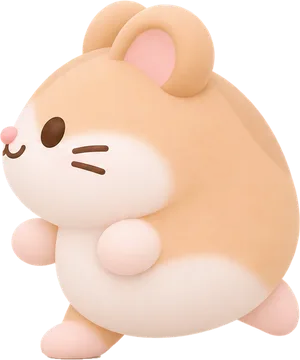
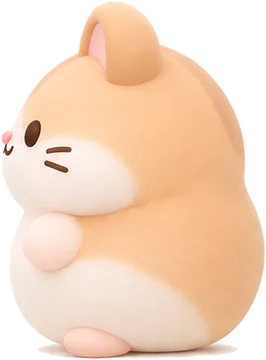
햄스터 옆모습을 예전 그림으로 되돌림 (서 있는 모습 + 달리는 모습, 액세서리 위치 복원)

diff --git a/animals.js b/animals.js
@@ -17,7 +17,7 @@ export const ANIMALS = [
   { id: 'bear', label: '곰', emoji: '🐻' },
   { id: 'fox', label: '여우', emoji: '🦊' },
   { id: 'sheep', label: '양', emoji: '🐑' },
-  { id: 'hamster', label: '햄스터', emoji: '🐹' },
+  { id: 'hamster', label: '햄스터', emoji: '🐹', runOnly: true }, // 옆으로 움직일 땐 달리는 그림(2번)만
   { id: 'shark', label: '우주 상어', emoji: '🦈', noAcc: true }, // 헬멧을 쓰고 있어서 액세서리를 못 씀
 ];
 
@@ -64,7 +64,7 @@ export const walkFrames = (id) => (BY_ID.get(id)?.runOnly ? [1] : [0, 1]);
 export const accOf = (id) => ACC_BY_ID.get(id) || null;
 // 액세서리를 쓸 수 있는 캐릭터인지 (noAcc면 착용해 둔 것도 안 보임, 다른 캐릭터로 바꾸면 다시 보임)
 export const canWearAcc = (id) => !BY_ID.get(id)?.noAcc;
-export const ANIMAL_VER = 6; // 그림을 바꾸면 올려서 캐시를 새로 받게 함
+export const ANIMAL_VER = 7; // 그림을 바꾸면 올려서 캐시를 새로 받게 함
 export const animalImg = (id, view = 'front') => `img/animals/${id}-${view}.webp?v=${ANIMAL_VER}`;
 export const accImg = (id) => `img/acc/${id}.webp?v=${ANIMAL_VER}`;
 export const VIEWS = ['front', 'back', 'left1', 'left2', 'right1', 'right2'];
@@ -93,7 +93,7 @@ export const accHtml = (it, cls = '') => `<img class="${cls}" src="${accImg(it.i
 //   feet: 발바닥 가운데 · pack: 가방 가운데
 // F = 앞모습(뒷모습은 좌우 반전해서 씀), S = 왼쪽을 보는 옆모습(오른쪽은 좌우 반전)
 // fw / sw = 앞모습 / 옆모습 그림 폭(px)
-// S2 / sw2: 옆모습 두 번째 장이 첫 장과 많이 다를 때만 (지금은 쓰는 동물 없음)
+// S2 / sw2: 옆모습 두 번째 장이 첫 장과 많이 다를 때만 (햄스터: 달리는 자세)
 const ANCHORS = {
   cat: { fw: 286, sw: 262,
     F: { head: [146, 46, 200], eyes: [148, 160, 175], neck: [146, 224, 150], body: [146, 214, 150], feet: [143, 357, 165], pack: [146, 270, 150] },
@@ -125,9 +125,10 @@ const ANCHORS = {
   sheep: { fw: 343, sw: 280,
     F: { head: [171, 24, 200], eyes: [170, 154, 160], neck: [171, 226, 165], body: [171, 220, 170], feet: [171, 357, 170], pack: [171, 290, 160] },
     S: { head: [140, 26, 200], eyes: [32, 154, 105], neck: [84, 232, 115], body: [116, 224, 140], feet: [110, 354, 150], pack: [200, 282, 150] } },
-  hamster: { fw: 299, sw: 300,
+  hamster: { fw: 299, sw: 266, sw2: 267,
     F: { head: [149, 30, 190], eyes: [147, 122, 150], neck: [148, 178, 145], body: [148, 172, 172], feet: [148, 357, 180], pack: [148, 232, 165] },
-    S: { head: [155, 38, 180], eyes: [51, 137, 105], neck: [95, 200, 110], body: [140, 195, 150], feet: [165, 352, 170], pack: [238, 225, 140] } },
+    S: { head: [140, 32, 180], eyes: [40, 130, 105], neck: [80, 182, 105], body: [122, 178, 138], feet: [112, 352, 145], pack: [210, 232, 140] },
+    S2: { head: [112, 174, 150], eyes: [42, 194, 95], neck: [70, 250, 85], body: [138, 236, 112], feet: [132, 352, 130], pack: [206, 228, 120] } },
 };
 const H = 360;
 // 부위별: 기준점에 액세서리 그림의 어느 점을 맞출지 (그림 크기 대비 %), 옆모습에서 가로로 줄이는 정도
@@ -163,7 +164,7 @@ const FRAMES = {
   bear: { w: [255, 267, 246, 244, 234, 249], hc: [126, 132], ef: [78, 175, 134], es: [[50, 143], [40, 135], [190, 134], [201, 137]] },
   fox: { w: [298, 270, 310, 335, 315, 337], hc: [132, 134], ef: [84, 184, 155], es: [[46, 156], [42, 154], [270, 146], [296, 143]] },
   sheep: { w: [343, 318, 280, 261, 266, 277], hc: [171, 158], ef: [125, 216, 156], es: [[30, 143], [31, 151], [231, 138], [240, 154]] },
-  hamster: { w: [299, 294, 300, 299, 283, 286], hc: [149, 146], ef: [103, 196, 124], es: [[51, 137], [51, 138], [246, 128], [249, 128]] },
+  hamster: { w: [299, 294, 266, 267, 264, 249], hc: [149, 146], ef: [103, 196, 124], es: [[31, 137], [43, 209], [234, 137], [207, 211]] },
 };
 const VIEW_IDX = { front: 0, back: 1, left1: 2, left2: 3, right1: 4, right2: 5 };
 const LENS = 0.445; // 안경 그림에서 두 렌즈 가운데 사이 거리 (그림 폭 대비)

diff --git a/plaza2d.js b/plaza2d.js
@@ -3,7 +3,7 @@
 // - 걷는 방향에 따라 앞·옆·뒷모습으로 바뀜, 뒤쪽(위)으로 갈수록 작게 보임
 // - 방향키 / WASD / 바닥 클릭 / 화면 방향 버튼으로 이동, Shift 달리기, Space 점프
 // 위치(x, y)는 배경 그림 기준 0~1 (y = 발 위치)
-import { animalImg, lookAccHtml, VIEWS, walkFrames } from './animals.js?v=12';
+import { animalImg, lookAccHtml, VIEWS, walkFrames } from './animals.js?v=13';
 
 // 걸을 수 있는 바닥 (배경 그림의 타일 광장, 타원)
 const FLOOR = { cx: 0.5, cy: 0.635, rx: 0.38, ry: 0.245 };

diff --git a/app.js b/app.js
@@ -10,8 +10,8 @@ import KEYWORDS from './keywords.js';
 import {
   ANIMALS, ACCESSORIES, SLOTS, ANIMAL_PRICE, ACC_PRICE,
   animalOf, accOf, animalImg, accHtml, cleanLook, ownsAnimal, ownsAcc, lookAccHtml, canWearAcc,
-} from './animals.js?v=12';
-import { createPlaza } from './plaza2d.js?v=12';
+} from './animals.js?v=13';
+import { createPlaza } from './plaza2d.js?v=13';
 import { THEMES, THEME_PRICE, DEFAULT_THEME, themeOf, themeImg, ownsTheme, myThemeId } from './themes.js?v=2';
 
 const $ = (s) => document.querySelector(s);

diff --git a/index.html b/index.html
@@ -507,6 +507,6 @@
   <div id="toast" class="message" role="status"></div>
 
   <!-- 코드를 바꾸면 ?v= 숫자를 올려서 브라우저 캐시에 남은 옛 파일을 쓰지 않게 함 -->
-  <script type="module" src="app.js?v=62"></script>
+  <script type="module" src="app.js?v=63"></script>
 </body>
 </html>
